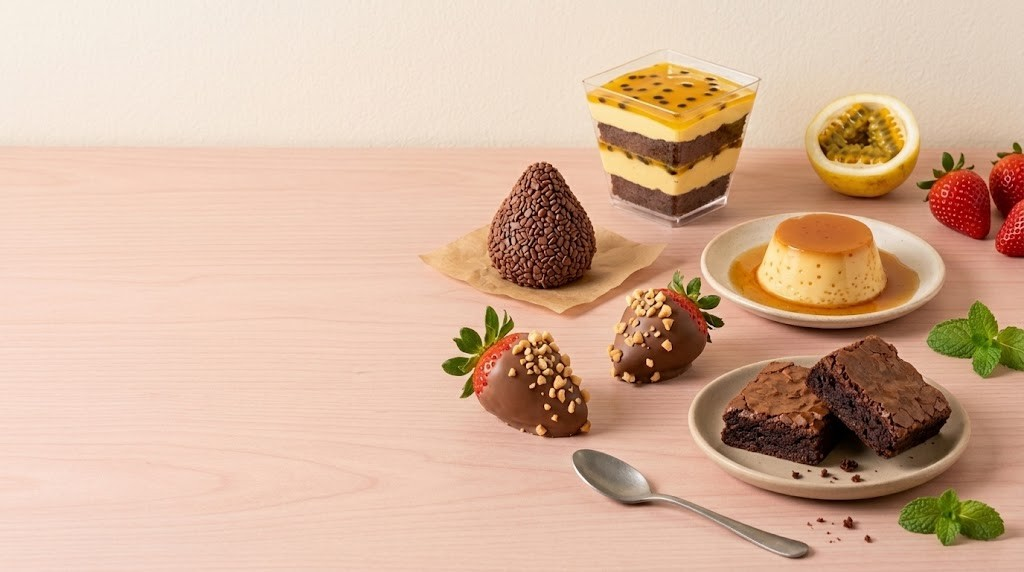
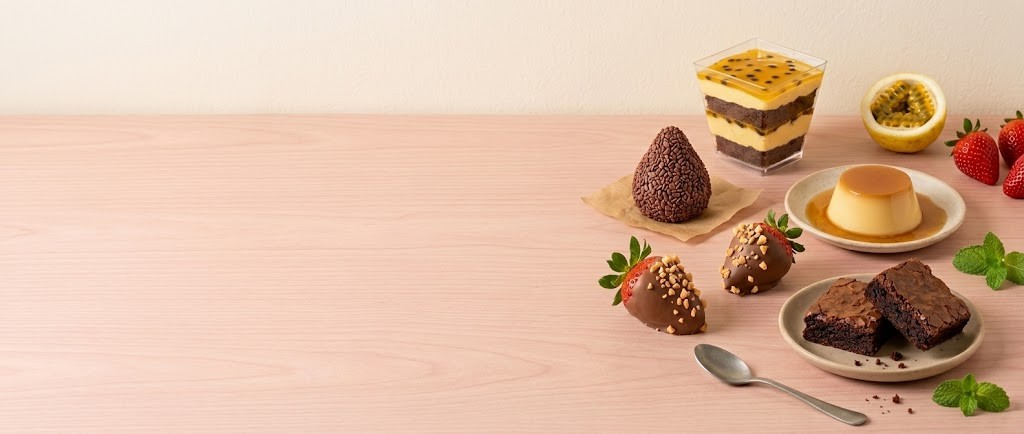
Capa larga com espaço para o título e foto do Gemini como principal nos bolos de pote e no salgado

diff --git a/jeni-atelie/src/components/Hero.tsx b/jeni-atelie/src/components/Hero.tsx
@@ -19,7 +19,7 @@ export const Hero = () => {
     // telas largas: a foto inteira ocupa a seção e o texto fica no espaço vazio da esquerda
     <section aria-labelledby="capa-t" className="relative mx-auto grid max-w-[90rem] gap-12 px-4 pt-28 pb-16 sm:px-6 lg:px-10 lg:pt-32 xl:block">
       <m.div initial="hidden" animate="show" variants={{ show: { transition: { staggerChildren: 0.09, delayChildren: 0.15 } } }}
-        className="relative z-10 xl:absolute xl:top-32 xl:bottom-16 xl:left-10 xl:flex xl:w-[42%] xl:flex-col xl:justify-center xl:pl-14">
+        className="relative z-10 xl:absolute xl:top-32 xl:bottom-16 xl:left-10 xl:flex xl:w-[50%] xl:flex-col xl:justify-center xl:pl-14">
         <h1 id="capa-t" className="font-display text-display font-bold text-chocolate xl:text-[clamp(4rem,5.2vw,5.5rem)]">
           <m.span variants={line} className="block">Docinho bom</m.span>
           <m.span variants={line} className="block text-morango">tem nome</m.span>
@@ -43,7 +43,7 @@ export const Hero = () => {
 
       <div className="relative">
         {/* celular: corta só a mesa vazia da esquerda; do tablet para cima a foto aparece inteira */}
-        <div className="aspect-[4/3] overflow-hidden rounded-[2rem] bg-rosa sm:aspect-[1024/572] lg:rounded-[2.5rem]">
+        <div className="aspect-[16/10] overflow-hidden rounded-[2rem] bg-rosa sm:aspect-[1024/434] lg:rounded-[2.5rem]">
           <m.img
             srcSet={capa.srcSet}
             sizes="(min-width: 1440px) 1360px, 100vw"
@@ -55,7 +55,7 @@ export const Hero = () => {
             initial={reduce ? false : { scale: 1.06 }}
             animate={{ scale: 1 }}
             transition={{ duration: 1.6, ease: easeOutExpo }}
-            className="size-full object-cover object-[80%_50%]"
+            className="size-full object-cover object-right"
           />
         </div>
         <Sticker tone="manteiga" rotate={-12} className="absolute -top-6 right-4 sm:right-8">

diff --git a/jeni-atelie/src/content.ts b/jeni-atelie/src/content.ts
@@ -41,7 +41,7 @@ export const menu: MenuGroup[] = [
     prefix: 'Bolo de pote',
     blurb: 'Camadas de massa fofinha e creme até a borda do pote. Dá para comer de colher, gelado.',
     tone: 'caramelo',
-    photos: ['jeni-pote', 'gerada-pote'],
+    photos: ['gerada-pote', 'jeni-pote'],
     items: [
       { id: 'pote-choco-maracuja', name: 'Chocolate com maracujá', price: 22 },
       { id: 'pote-branca-maracuja', name: 'Massa branca com maracujá', price: 22 },
@@ -112,7 +112,7 @@ export const menu: MenuGroup[] = [
     prefix: '',
     blurb: 'Para equilibrar a mesa: massa que desmancha e recheio cremoso de frango.',
     tone: 'manteiga',
-    photos: ['jeni-empadao', 'gerada-empadao'],
+    photos: ['gerada-empadao', 'jeni-empadao'],
     items: [{ id: 'empadao-frango', name: 'Empadão de frango', price: 18 }],
   },
 ];
